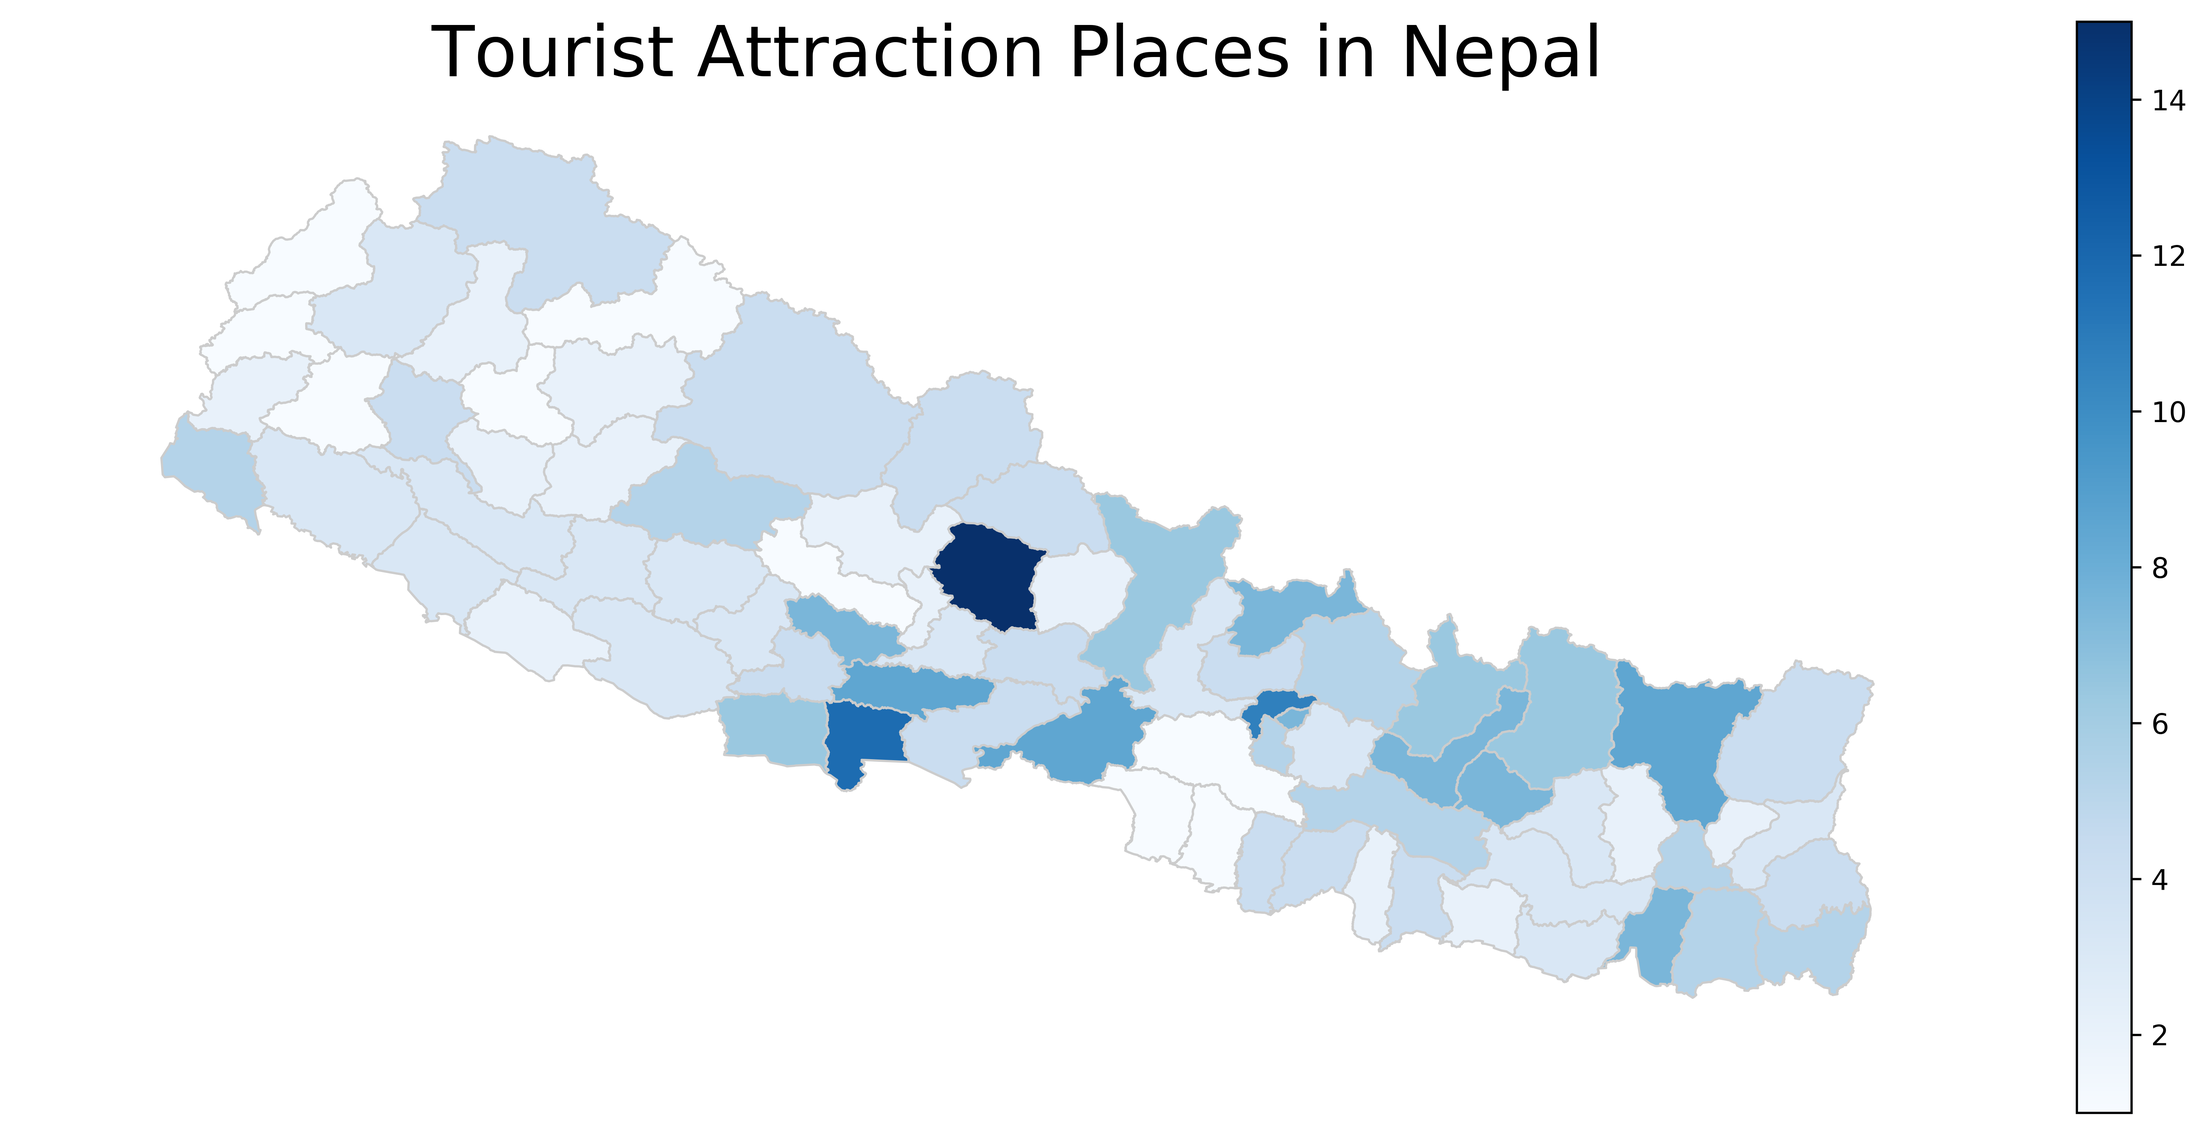
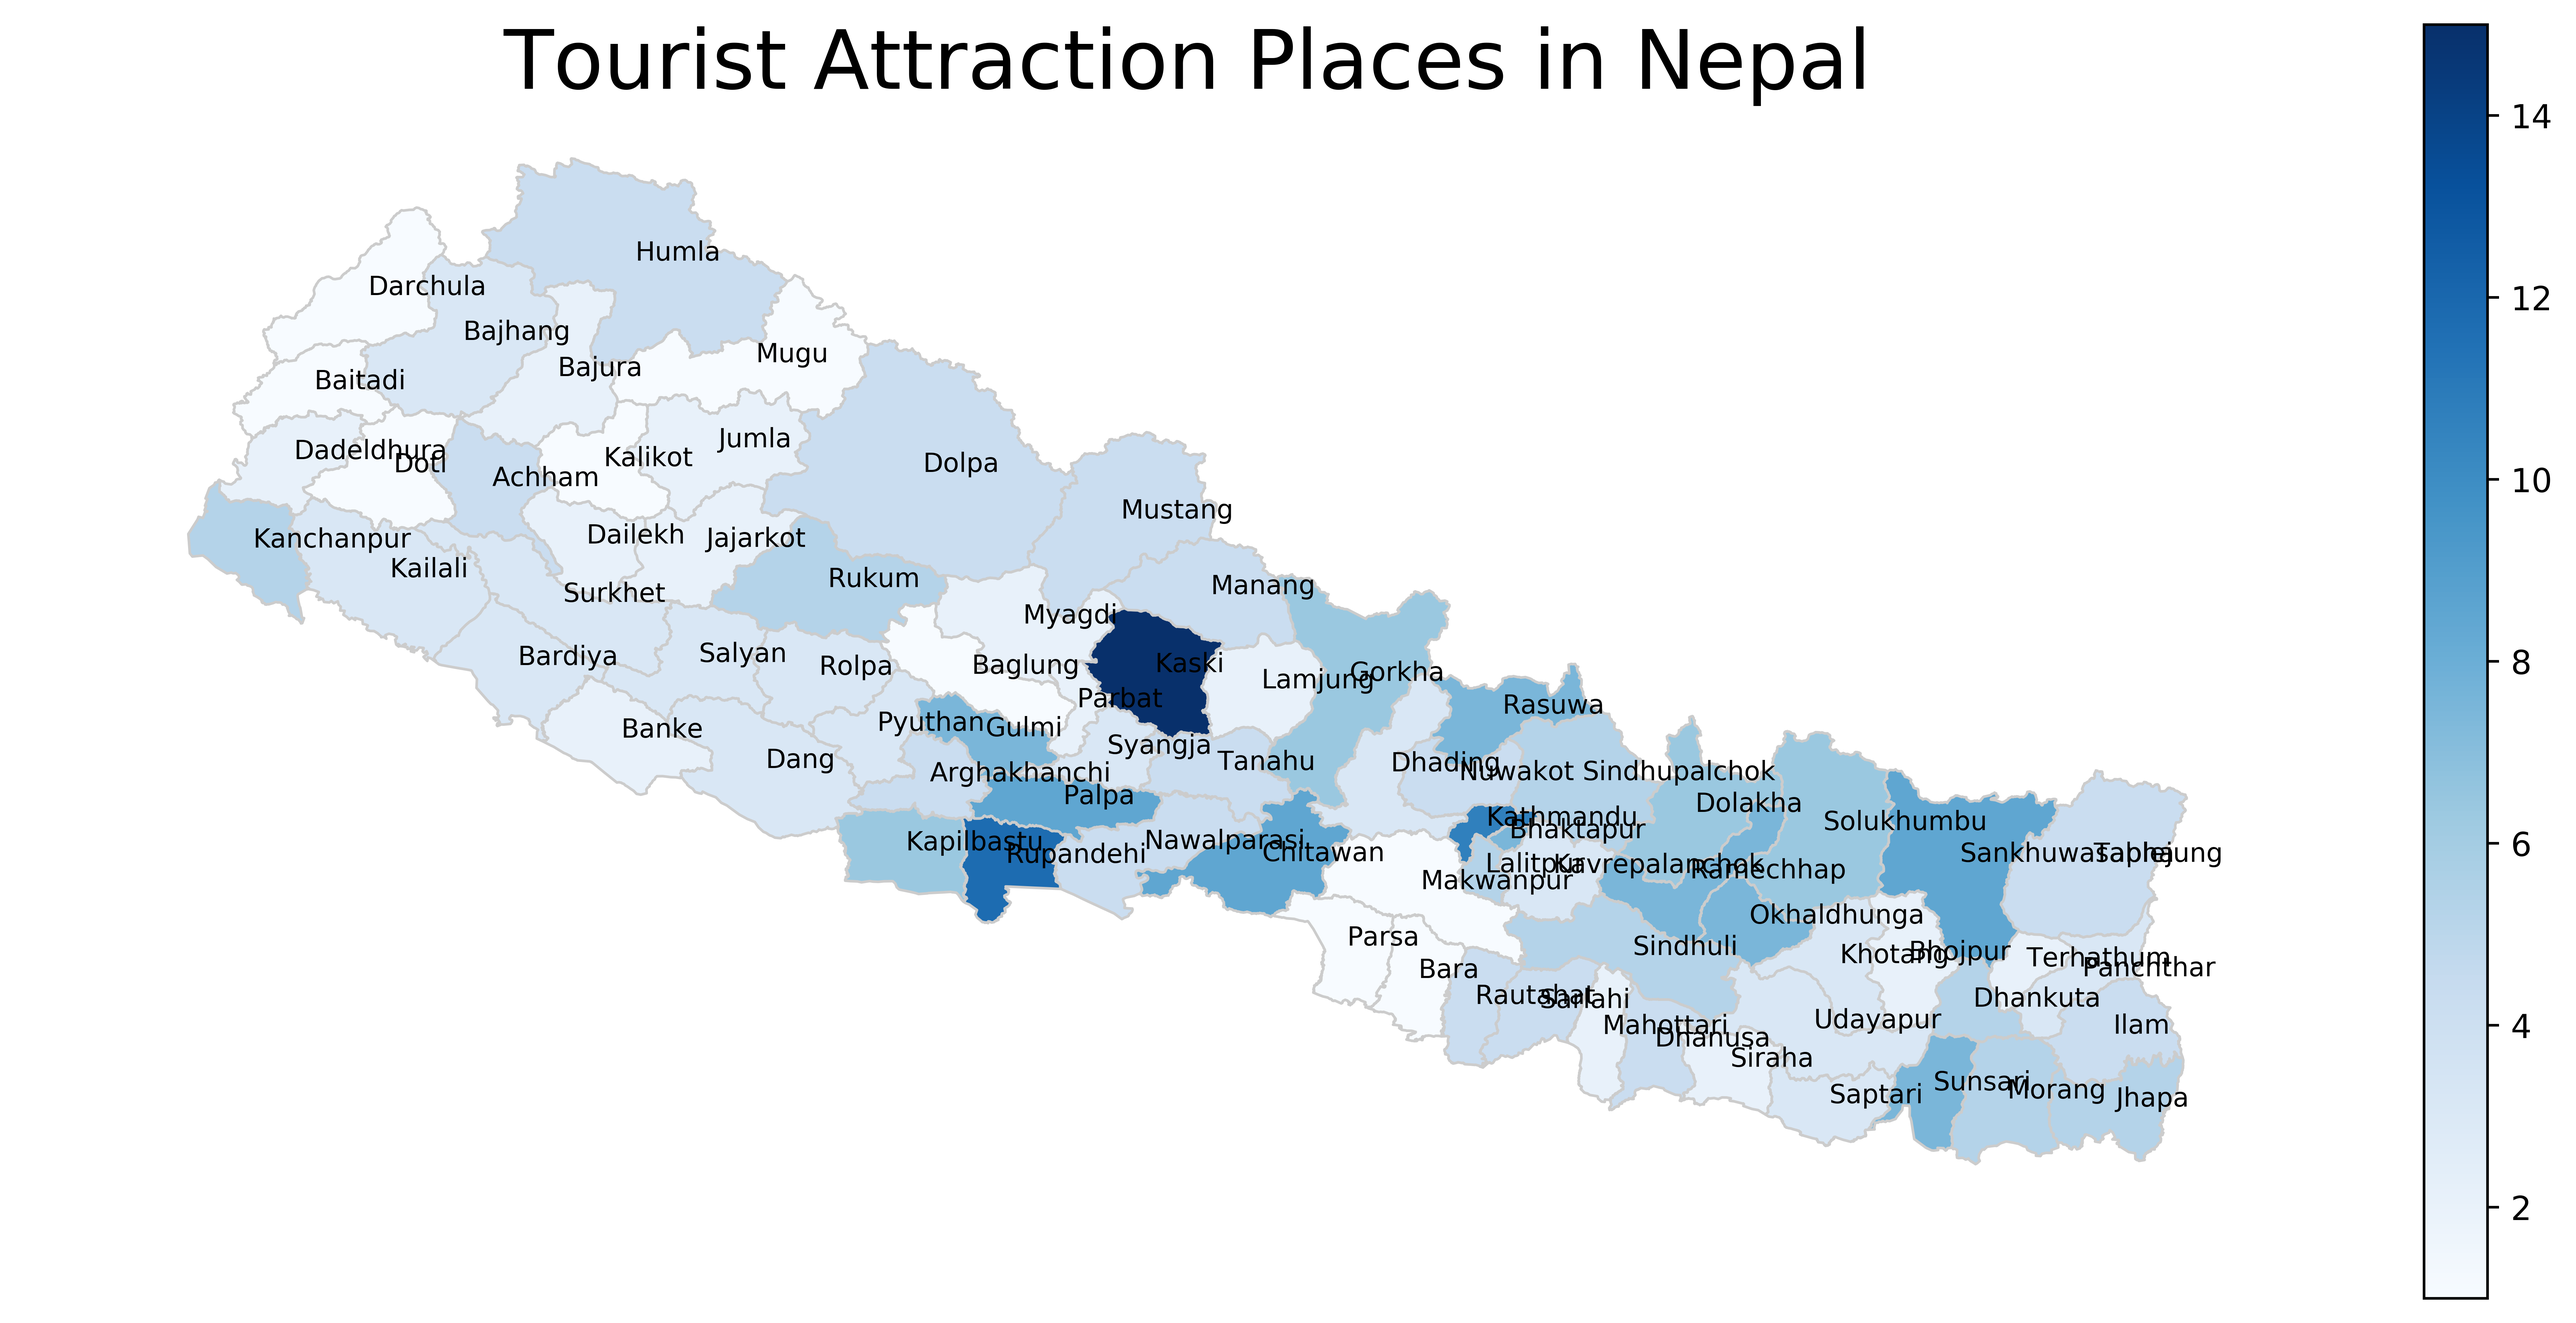
district names adde to map of nepal

diff --git a/PredictionEngine/templates/PredictionEngine/predict_detail.html b/PredictionEngine/templates/PredictionEngine/predict_detail.html
@@ -32,15 +32,12 @@
 </br></br>
 <div style="background-color:rgba(182, 219, 191,0.7); padding:20px;">
 <div style="padding-left:20px;font-size:25px;">
-Select year 
+Select year :
 <div style="display:inline-block;">
 
 <form method="GET" action="{% url 'predict_detail' 1 %}" value="{{request.GET.selectyear}}">{% csrf_token %}
-<select name="selectyear">
-  <option value="2018">2018</option>
-  <option value="2019">2019</option>
-  <option value="2020">2020</option>
-</select>
+<input type="number" placeholder="Enter Year" name="selectyear">
+  
 <input type="submit" value="Predict">
 </form>
 </div>

diff --git a/PredictionEngine/templates/PredictionEngine/predicts.html b/PredictionEngine/templates/PredictionEngine/predicts.html
@@ -2,6 +2,7 @@
 
 
 {% block content %}
+{% load static%}
 {% comment %} 
 <div align="right">
  <a href="{% url 'ppdf_view' all_details.id %}"><span style="color:orange">Downloand PDF </span> </a><br>
@@ -146,6 +147,11 @@ RECORDS:<br>
 </tr></td>
 
 </table>
+<br><br>
+
+{% comment %} <img src="{% static 'img/pid2.png'%}" width=700 height=auto /> {% endcomment %}
+<br><br><br>
+
 </div >
 <div class="predictionindex">
 <div class="access">
@@ -199,6 +205,7 @@ RECORDS:<br>
     <td class="th">-Zonal, Regional Central gov hospitals</td>
   </tr> 
 </table>
+
 
 </div>
 {% endblock content %}

diff --git a/AnalysisEngine/templates/AnalysisEngine/analysis_detail.html b/AnalysisEngine/templates/AnalysisEngine/analysis_detail.html
@@ -61,7 +61,7 @@
 {% endif %}
 {% if all_details.id == 6 %}
 
-<img src="{% static 'img/id6.png'%}" width=700 height=auto />
+<img src="{% static 'img/id6.png'%}" width=1000 height=auto />
 
 {% endif %}
 {% endblock content %}

diff --git a/FrontendNavigator/templates/FrontendNavigator/base.html b/FrontendNavigator/templates/FrontendNavigator/base.html
@@ -61,7 +61,7 @@
 {% block content %}
 {% endblock content %}
 
-
+<br>
 
 
 

diff --git a/manage.py b/manage.py
@@ -34,6 +34,14 @@ from keras.layers import Dense
 import statsmodels.api as sm
 from statsmodels.tsa.stattools import acf,pacf
 from statsmodels.iolib.smpickle import load_pickle
+
+
+# import adjustText as aT
+from geopandas import GeoDataFrame
+from shapely.geometry import Point
+import matplotlib.pyplot as plt
+
+
 def main():
 
     def run_models():
@@ -370,6 +378,21 @@ def main():
         fp="assets/NepalMaps-master/baselayers/NPL_adm/NPL_adm3.shp"
 
         map_df = gpd.read_file(fp)
+        
+
+        
+
+
+        # fig, ax = map_df.plot(figsize = (15, 12), color = "whitesmoke", edgecolor = "lightgrey", linewidth = 0.5)
+        # texts = []
+
+
+
+
+
+
+
+
 
         #joining file
 
@@ -379,8 +402,17 @@ def main():
 
         vmin, vmax = 1, 15  #data min - max values
 
-        fig, ax = mpl.pyplot.subplots(1, figsize=(15, 7)) #number of figure and size axis
 
+        map_df["center"] = map_df["geometry"].centroid
+        za_points = map_df.copy()
+        za_points.set_geometry("center", inplace = True)
+
+        fig, ax = mpl.pyplot.subplots(1, figsize=(15, 7)) #number of figure and size axis
+        for x, y, label in zip(za_points.geometry.x, za_points.geometry.y, za_points["NAME_3"]):
+            texts.append(plt.text(x, y, label, fontsize = 8))
+        # aT.adjust_text(texts, force_points=0.3, force_text=0.8, expand_points=(1,1), expand_text=(1,1), 
+        # arrowprops=dict(arrowstyle="-", color='grey', lw=0.5))
+        
         #plotting map
 
         merged.plot(column = variable, cmap='Blues', linewidth = 0.8,ax=ax, edgecolor = '0.8')
@@ -402,9 +434,16 @@ def main():
 
         #storing plots in bytes
         
-        mpl.pyplot.savefig('AnalysisEngine/static/img/id6.png', dpi=600,bbox_inches='tight')
+        mpl.pyplot.savefig('AnalysisEngine/static/img/id6.png', dpi=700,bbox_inches='tight')
     
         mpl.pyplot.clf()
+
+
+
+
+
+
+
 
         #Gross foreign exchange earning from tourism
         data=pd.read_csv("assets/gross foreign exchange earning from tourism.csv",header=0,index_col=0)
